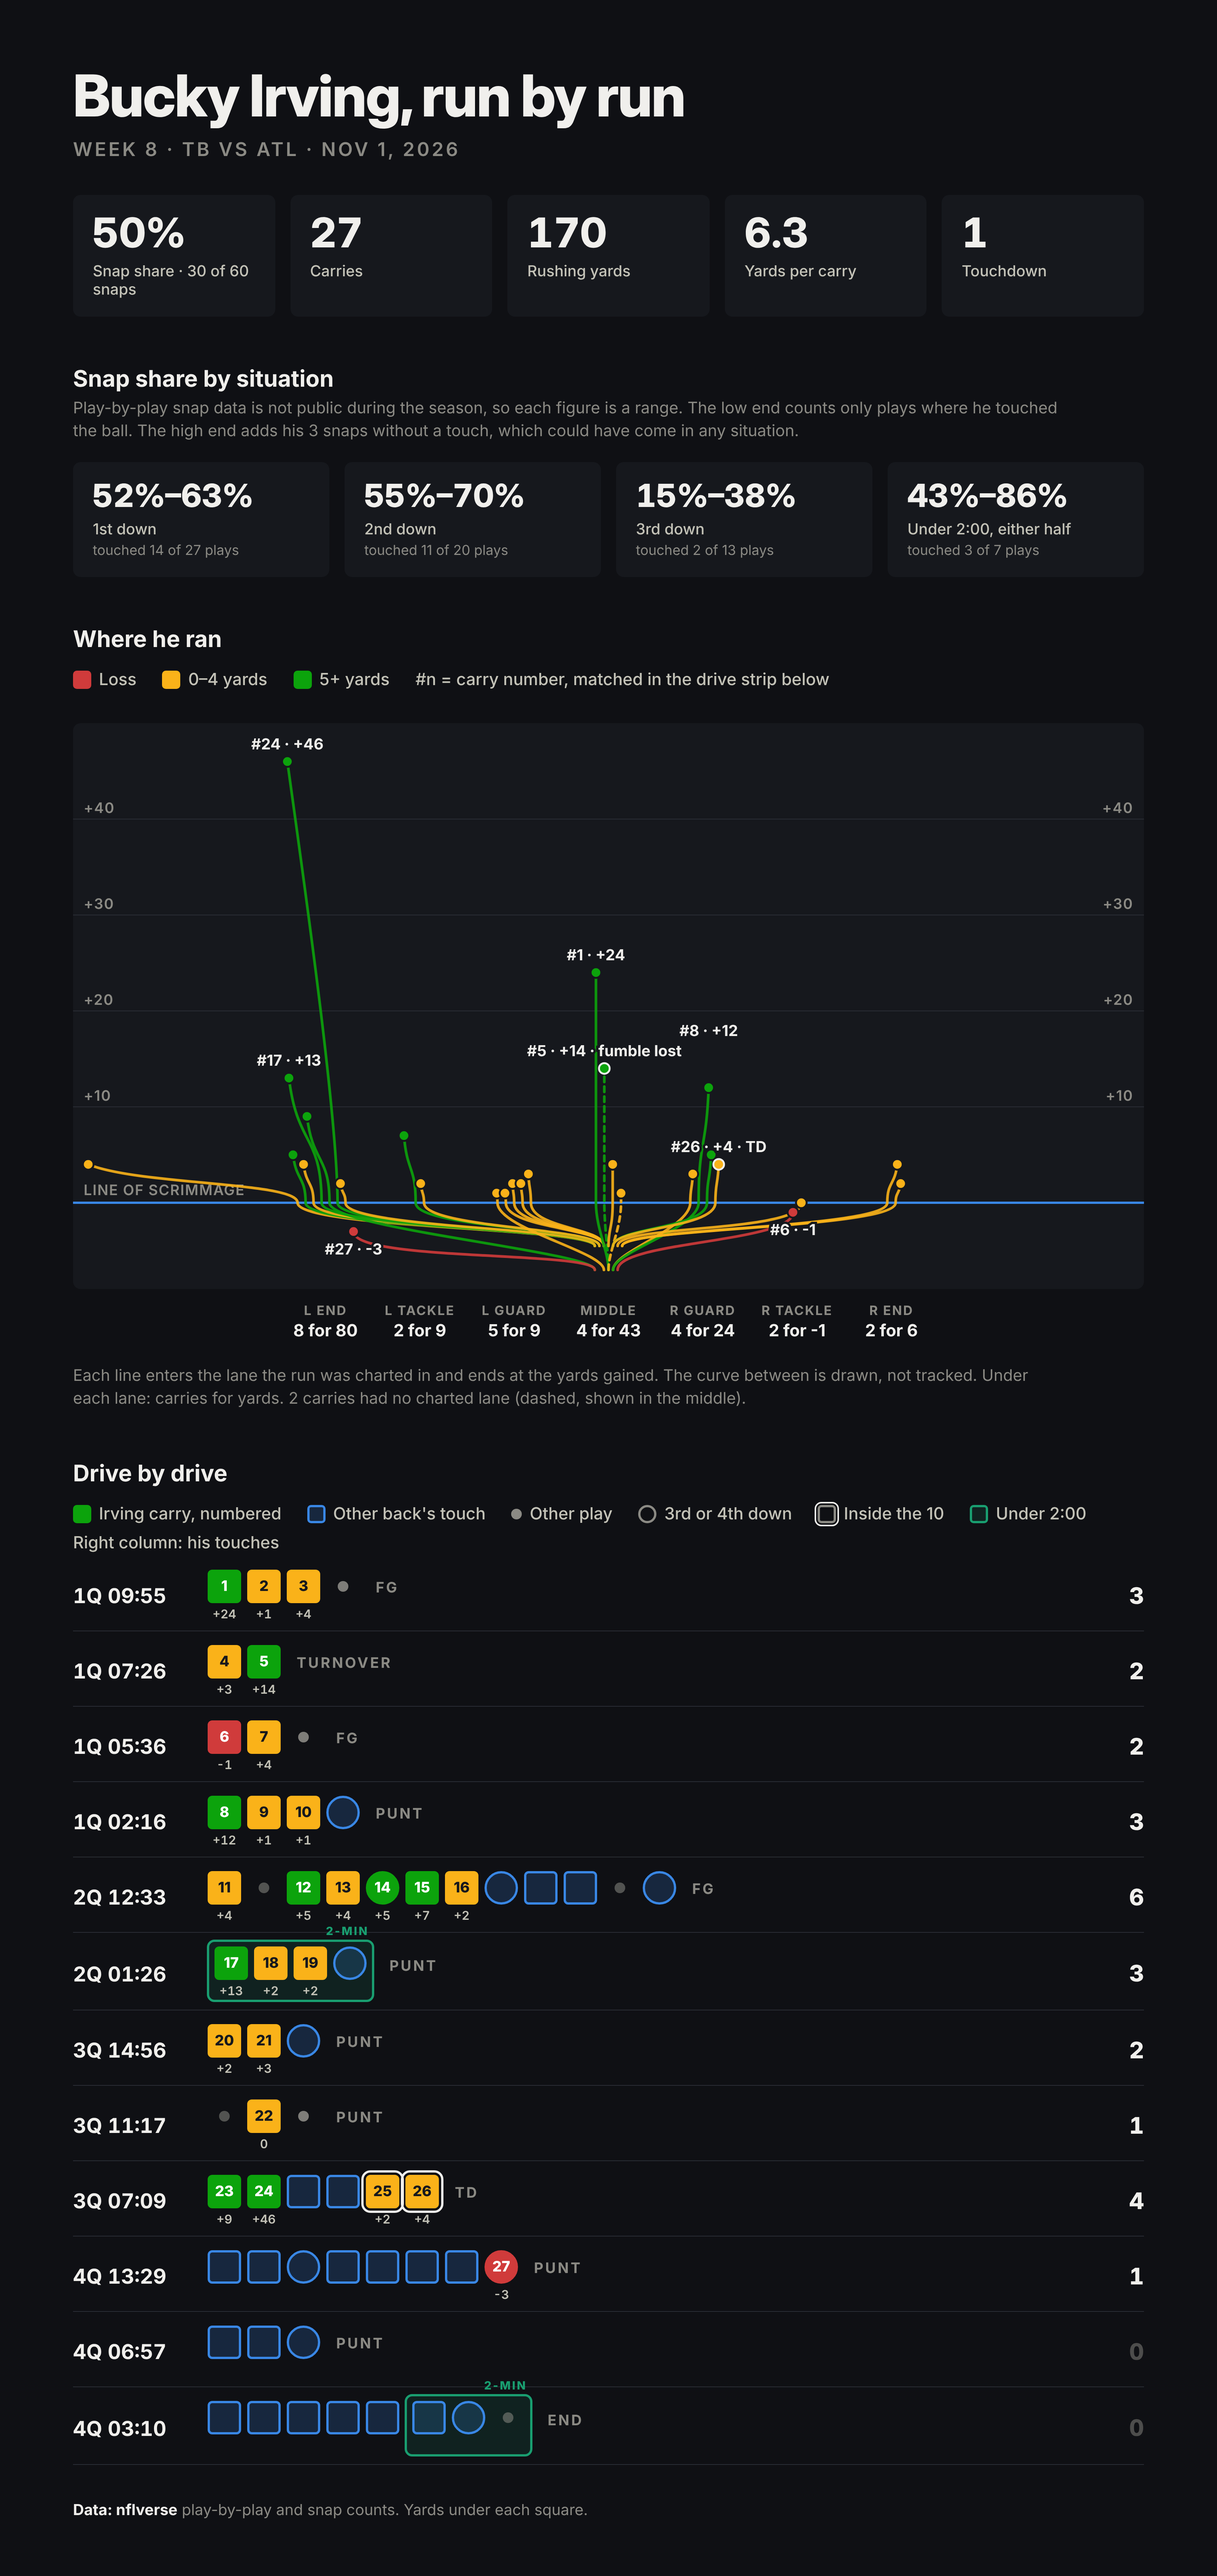
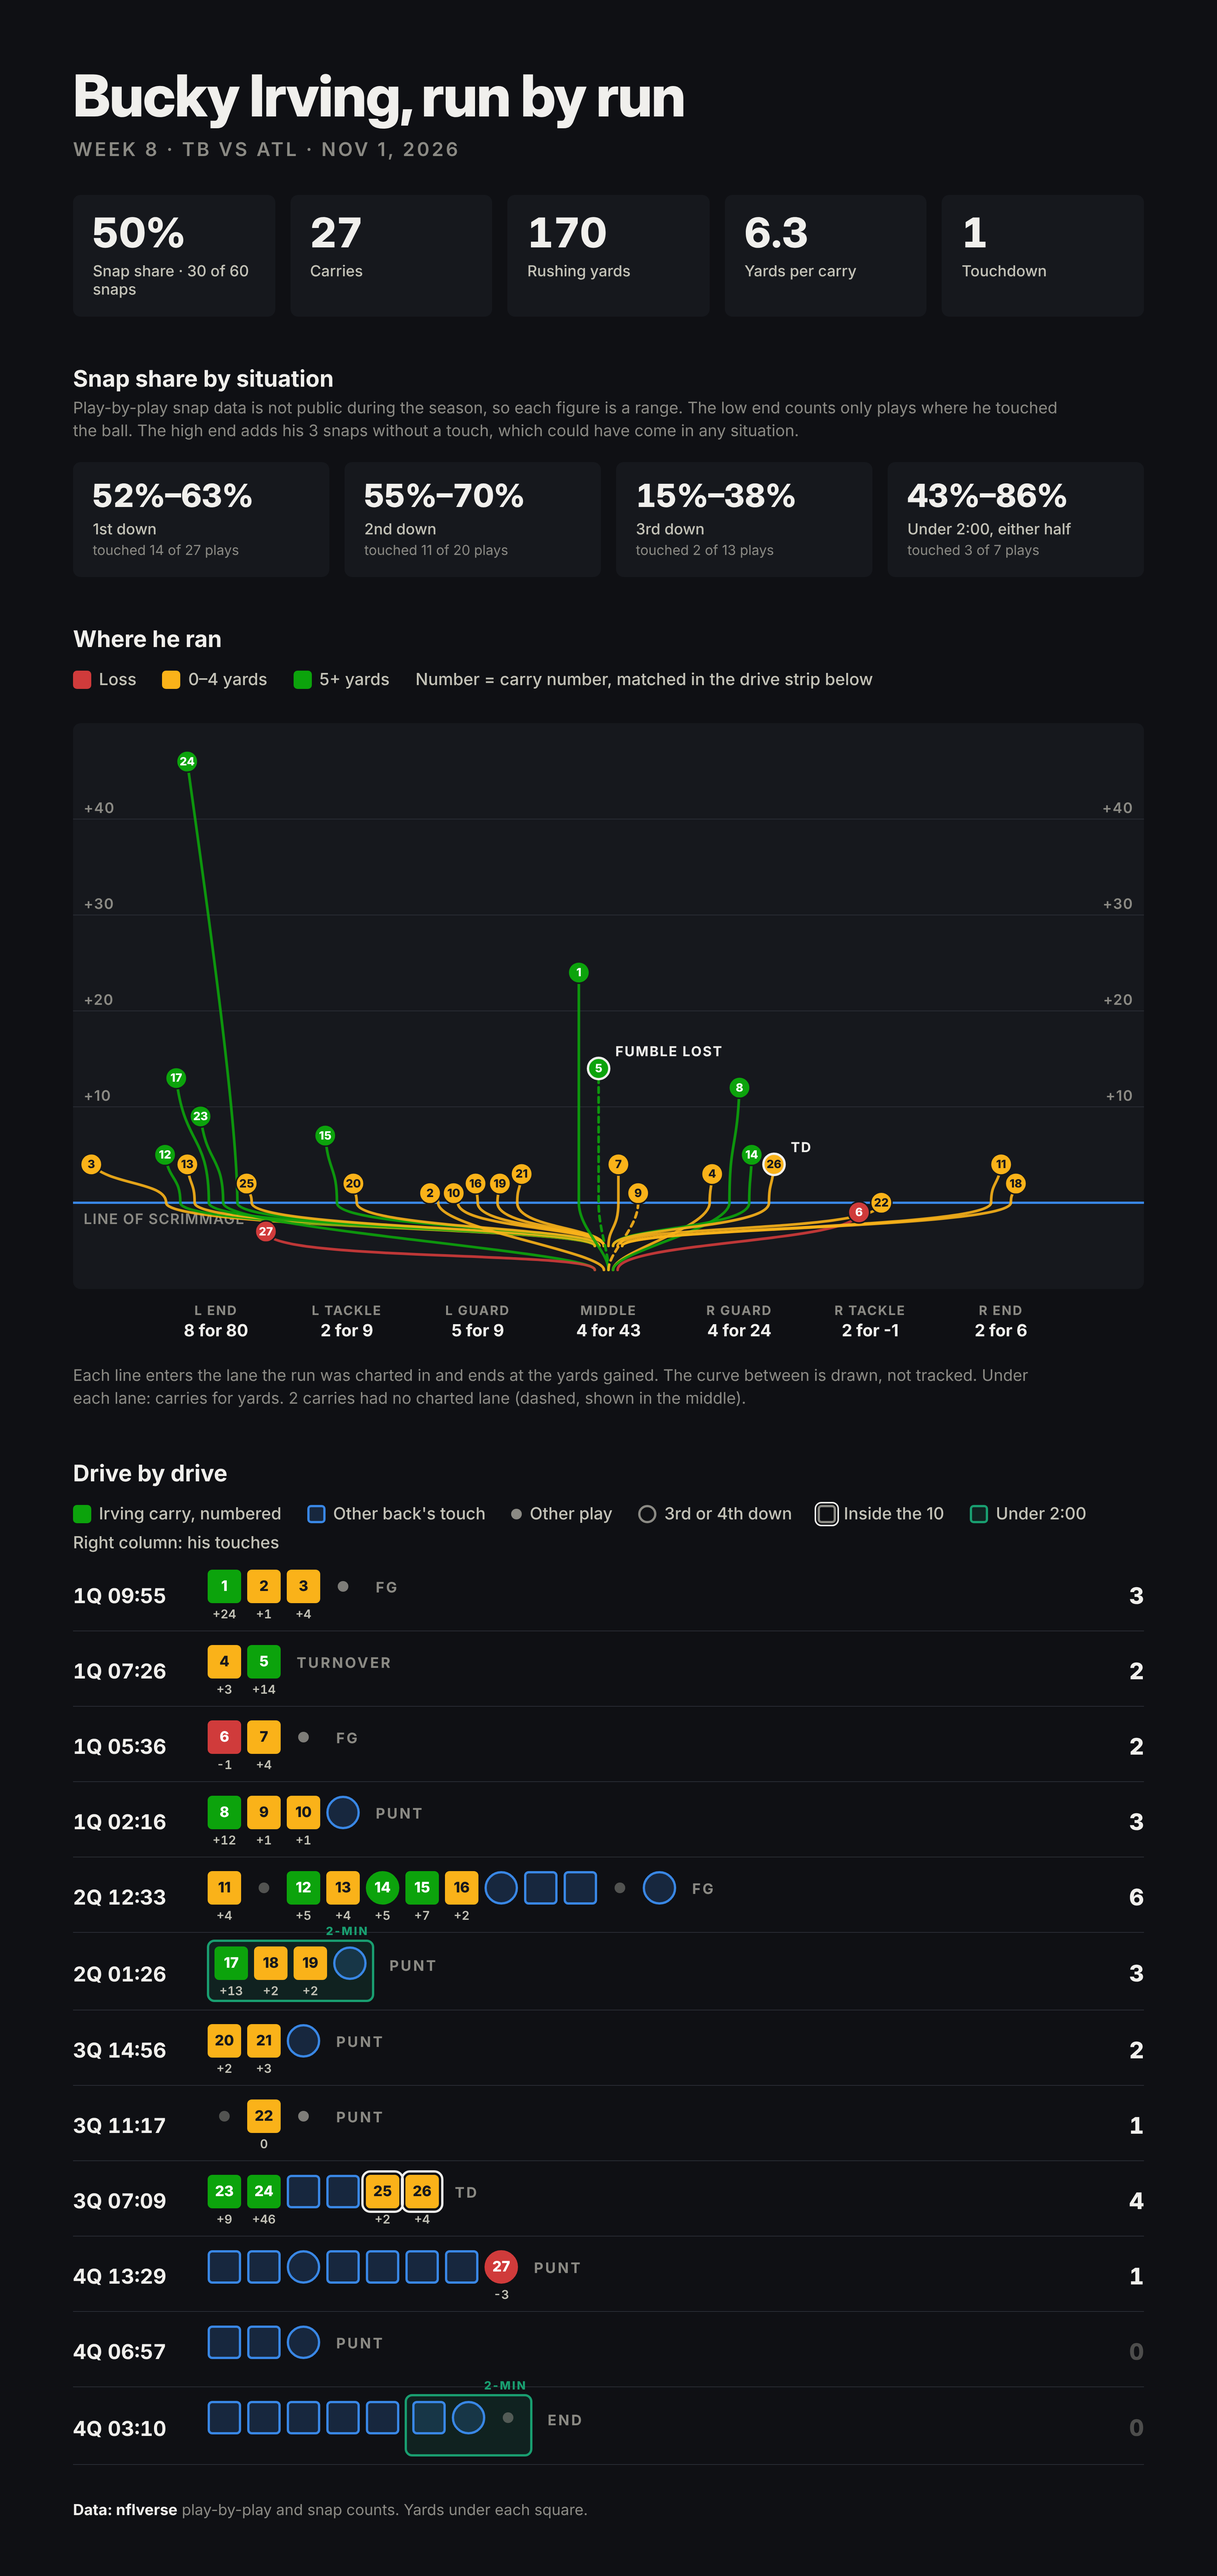
Carry chart: number every run in its end circle
Claude-Session: https://claude.ai/code/session_01VaajPvs1PTNcexKjgHGXfJ

diff --git a/scripts/analysis/carry-chart/build.py b/scripts/analysis/carry-chart/build.py
@@ -100,7 +100,7 @@ def field(carries: pd.DataFrame) -> tuple[str, int]:
     fw, top, yd = W - 2 * PAD, 40, 12.6
     max_y = max(50, int(carries.yards_gained.max()) + 4)
     h = int(top + (max_y + 9) * yd + 96)
-    cx, lane_w, side = W / 2, 124, fw / 2 - 20
+    cx, lane_w, side = W / 2, 172, fw / 2 - 24
     y = lambda yards: top + (max_y - yards) * yd  # noqa: E731
     out = [f'<svg width="{W}" height="{h}" viewBox="0 0 {W} {h}">',
            f'<rect x="{PAD}" y="{top}" width="{fw}" height="{(max_y + 9) * yd}" rx="10" fill="{PANEL}"/>']
@@ -110,55 +110,64 @@ def field(carries: pd.DataFrame) -> tuple[str, int]:
         for x, anchor in ((PAD + 14, "start"), (W - PAD - 14, "end")):
             out.append(f'<text x="{x}" y="{y(mark) - 8}" text-anchor="{anchor}" class="tick">+{mark}</text>')
     out.append(f'<line x1="{PAD}" x2="{W - PAD}" y1="{y(0)}" y2="{y(0)}" stroke="{LOS}" stroke-width="3"/>')
-    out.append(f'<text x="{PAD + 14}" y="{y(0) - 10}" class="tick" fill="{INK2}">LINE OF SCRIMMAGE</text>')
+    out.append(f'<text x="{PAD + 14}" y="{y(0) + 28}" class="tick" fill="{INK2}">LINE OF SCRIMMAGE</text>')
 
     lane_of = {k: i for i, k in enumerate(LANES)}
     carries = carries.copy()
     carries["lane"] = [lane_of.get((loc, gap if loc != "middle" else None), 3) if isinstance(loc, str) else 3
                        for loc, gap in zip(carries.run_location, carries.run_gap.where(carries.run_gap.notna(), None))]
-    labels, ends = [], []
+    runs = []
     for lane, grp in carries.groupby("lane"):
         lx = cx + (lane - 3) * lane_w
         total = int(grp.yards_gained.sum())
         out.append(f'<text x="{lx}" y="{y(-9) + 34}" text-anchor="middle" class="lane">{LANE_NAMES[lane].upper()}</text>')
         out.append(f'<text x="{lx}" y="{y(-9) + 62}" text-anchor="middle" class="lanev">{len(grp)} for {total}</text>')
         for i, (_, r) in enumerate(grp.iterrows()):
-            fan = (i - (len(grp) - 1) / 2) * min(11, 84 / max(len(grp), 1))
+            fan = (i - (len(grp) - 1) / 2) * min(26, 150 / max(len(grp), 1))
             px, yards, col = lx + fan, float(r.yards_gained), outcome(float(r.yards_gained))
             sx, sy = cx + (lane - 3) * 6, y(-4.5 if r.shotgun else -7)
             drift = (lane - 3) * min(yards, 20) * 1.1 if yards > 0 else 0
             ex, ey = px + drift, y(yards)
             if r.out_of_bounds == 1:
                 ex = cx - side if lane < 3 else cx + side
-            if yards <= 0:  # never crossed the line: one bend, stopping short
-                d = f"M{sx:.1f},{sy:.1f} C{sx:.1f},{(sy + ey) / 2:.1f} {ex:.1f},{ey + 40:.1f} {ex:.1f},{ey:.1f}"
-            else:
-                reach = max(10, min(120, (y(0) - ey) * 0.55))
-                d = (f"M{sx:.1f},{sy:.1f} C{sx:.1f},{sy - 24:.1f} {px:.1f},{y(0) + 34:.1f} {px:.1f},{y(0):.1f} "
-                     f"C{px:.1f},{y(0) - reach:.1f} {ex - (ex - px) * 0.25:.1f},{ey + reach:.1f} {ex:.1f},{ey:.1f}")
-            dash = "" if isinstance(r.run_location, str) else ' stroke-dasharray="7 6"'
-            out.append(f'<path d="{d}" fill="none" stroke="{col}" stroke-width="3.5" stroke-linecap="round" opacity=".9"{dash}/>')
-            ends.append((ex, ey, col, r))
-            tags = []
-            if r.rush_touchdown == 1:
-                tags.append("TD")
-            if r.fumble_lost == 1:
-                tags.append("fumble lost")
-            if tags or yards >= 10 or yards < 0:
-                tail = f" · {', '.join(tags)}" if tags else ""
-                labels.append((ex, ey, f"#{int(r.n)} · {int(yards):+d}{tail}", lane))
-    for ex, ey, col, r in ends:
-        ring = INK if (r.rush_touchdown == 1 or r.fumble_lost == 1) else PANEL
-        out.append(f'<circle cx="{ex:.1f}" cy="{ey:.1f}" r="7" fill="{col}" stroke="{ring}" stroke-width="2.5"/>')
-    placed = []
-    for ex, ey, text, lane in sorted(labels, key=lambda l: l[1]):
-        below = text.split(" · ")[1].startswith("-")
-        ty = ey + 30 if below else ey - 16
-        while any(abs(ty - py) < 26 and abs(ex - pxx) < 150 for pxx, py in placed):
-            ty += 26 if below else -26
-        placed.append((ex, ty))
-        anchor = "start" if ex < PAD + 120 else "end" if ex > W - PAD - 120 else "middle"
-        out.append(f'<text x="{ex:.1f}" y="{ty:.1f}" text-anchor="{anchor}" class="call">{esc(text)}</text>')
+            runs.append(dict(sx=sx, sy=sy, px=px, ex=ex, ey=ey, yards=yards, col=col, r=r,
+                             pinned=r.out_of_bounds == 1))
+    # Numbered end circles must not sit on top of each other: nudge sideways.
+    R = 14
+    for _ in range(200):
+        moved = False
+        for i, a in enumerate(runs):
+            for b in runs[i + 1:]:
+                dx, dy = b["ex"] - a["ex"], b["ey"] - a["ey"]
+                gap = 2 * R + 3
+                if dx * dx + dy * dy < gap * gap:
+                    need = (gap * gap - dy * dy) ** 0.5 - abs(dx)
+                    step = (need / 2 + 0.5) * (1 if dx >= 0 else -1)
+                    if not a["pinned"]:
+                        a["ex"] -= step
+                    if not b["pinned"]:
+                        b["ex"] += step
+                    moved = True
+        if not moved:
+            break
+    for q in runs:
+        sx, sy, px, ex, ey, yards, r = (q[k] for k in ("sx", "sy", "px", "ex", "ey", "yards", "r"))
+        if yards <= 0:  # never crossed the line: one bend, stopping short
+            d = f"M{sx:.1f},{sy:.1f} C{sx:.1f},{(sy + ey) / 2:.1f} {ex:.1f},{ey + 40:.1f} {ex:.1f},{ey:.1f}"
+        else:
+            reach = max(10, min(120, (y(0) - ey) * 0.55))
+            d = (f"M{sx:.1f},{sy:.1f} C{sx:.1f},{sy - 24:.1f} {px:.1f},{y(0) + 34:.1f} {px:.1f},{y(0):.1f} "
+                 f"C{px:.1f},{y(0) - reach:.1f} {ex - (ex - px) * 0.25:.1f},{ey + reach:.1f} {ex:.1f},{ey:.1f}")
+        dash = "" if isinstance(r.run_location, str) else ' stroke-dasharray="7 6"'
+        out.append(f'<path d="{d}" fill="none" stroke="{q["col"]}" stroke-width="3.5" stroke-linecap="round" opacity=".9"{dash}/>')
+    for q in runs:
+        r, ex, ey = q["r"], q["ex"], q["ey"]
+        tag = "TD" if r.rush_touchdown == 1 else "FUMBLE LOST" if r.fumble_lost == 1 else ""
+        ink = "#16181d" if q["col"] == SHORT else "#fff"
+        out.append(f'<circle cx="{ex:.1f}" cy="{ey:.1f}" r="{R}" fill="{q["col"]}" stroke="{INK if tag else PANEL}" stroke-width="{3 if tag else 2}"/>')
+        out.append(f'<text x="{ex:.1f}" y="{ey + 5:.1f}" text-anchor="middle" class="num" fill="{ink}">{int(r.n)}</text>')
+        if tag:
+            out.append(f'<text x="{ex + R + 8:.1f}" y="{ey - R - 2:.1f}" class="call">{tag}</text>')
     out.append("</svg>")
     return "\n".join(out), h
 
@@ -226,7 +235,8 @@ svg text{{font-family:Inter,sans-serif}}
 .tick{{font-size:19px;font-weight:600;fill:{INK3};letter-spacing:1px}}
 .lane{{font-size:17px;font-weight:700;fill:{INK3};letter-spacing:1.5px}}
 .lanev{{font-size:22px;font-weight:700;fill:{INK}}}
-.call{{font-size:20px;font-weight:700;fill:{INK};paint-order:stroke;stroke:{PANEL};stroke-width:6px}}
+.num{{font-size:15px;font-weight:800}}
+.call{{font-size:18px;letter-spacing:1.5px;font-weight:700;fill:{INK};paint-order:stroke;stroke:{PANEL};stroke-width:6px}}
 .drive{{display:flex;align-items:center;border-bottom:1px solid {GRID};padding:18px 0 10px;min-height:96px}}
 .when{{width:176px;font:700 27px Inter;font-variant-numeric:tabular-nums}}
 .marks{{flex:1;display:flex;flex-wrap:wrap;align-items:flex-start;gap:8px 6px}}
@@ -283,7 +293,7 @@ come in any situation.</p>
 <div class="legend"><span><i class="sw" style="background:{LOSS}"></i>Loss</span>
 <span><i class="sw" style="background:{SHORT}"></i>0–4 yards</span>
 <span><i class="sw" style="background:{GOOD}"></i>5+ yards</span>
-<span>#n = carry number, matched in the drive strip below</span></div>
+<span>Number = carry number, matched in the drive strip below</span></div>
 <div class="fieldwrap">{field_svg}</div>
 <p class="note">Each line enters the lane the run was charted in and ends at the yards gained. The curve between
 is drawn, not tracked. Under each lane: carries for yards.{f" {unlocated} carries had no charted lane (dashed, shown in the middle)." if unlocated else ""}</p>
